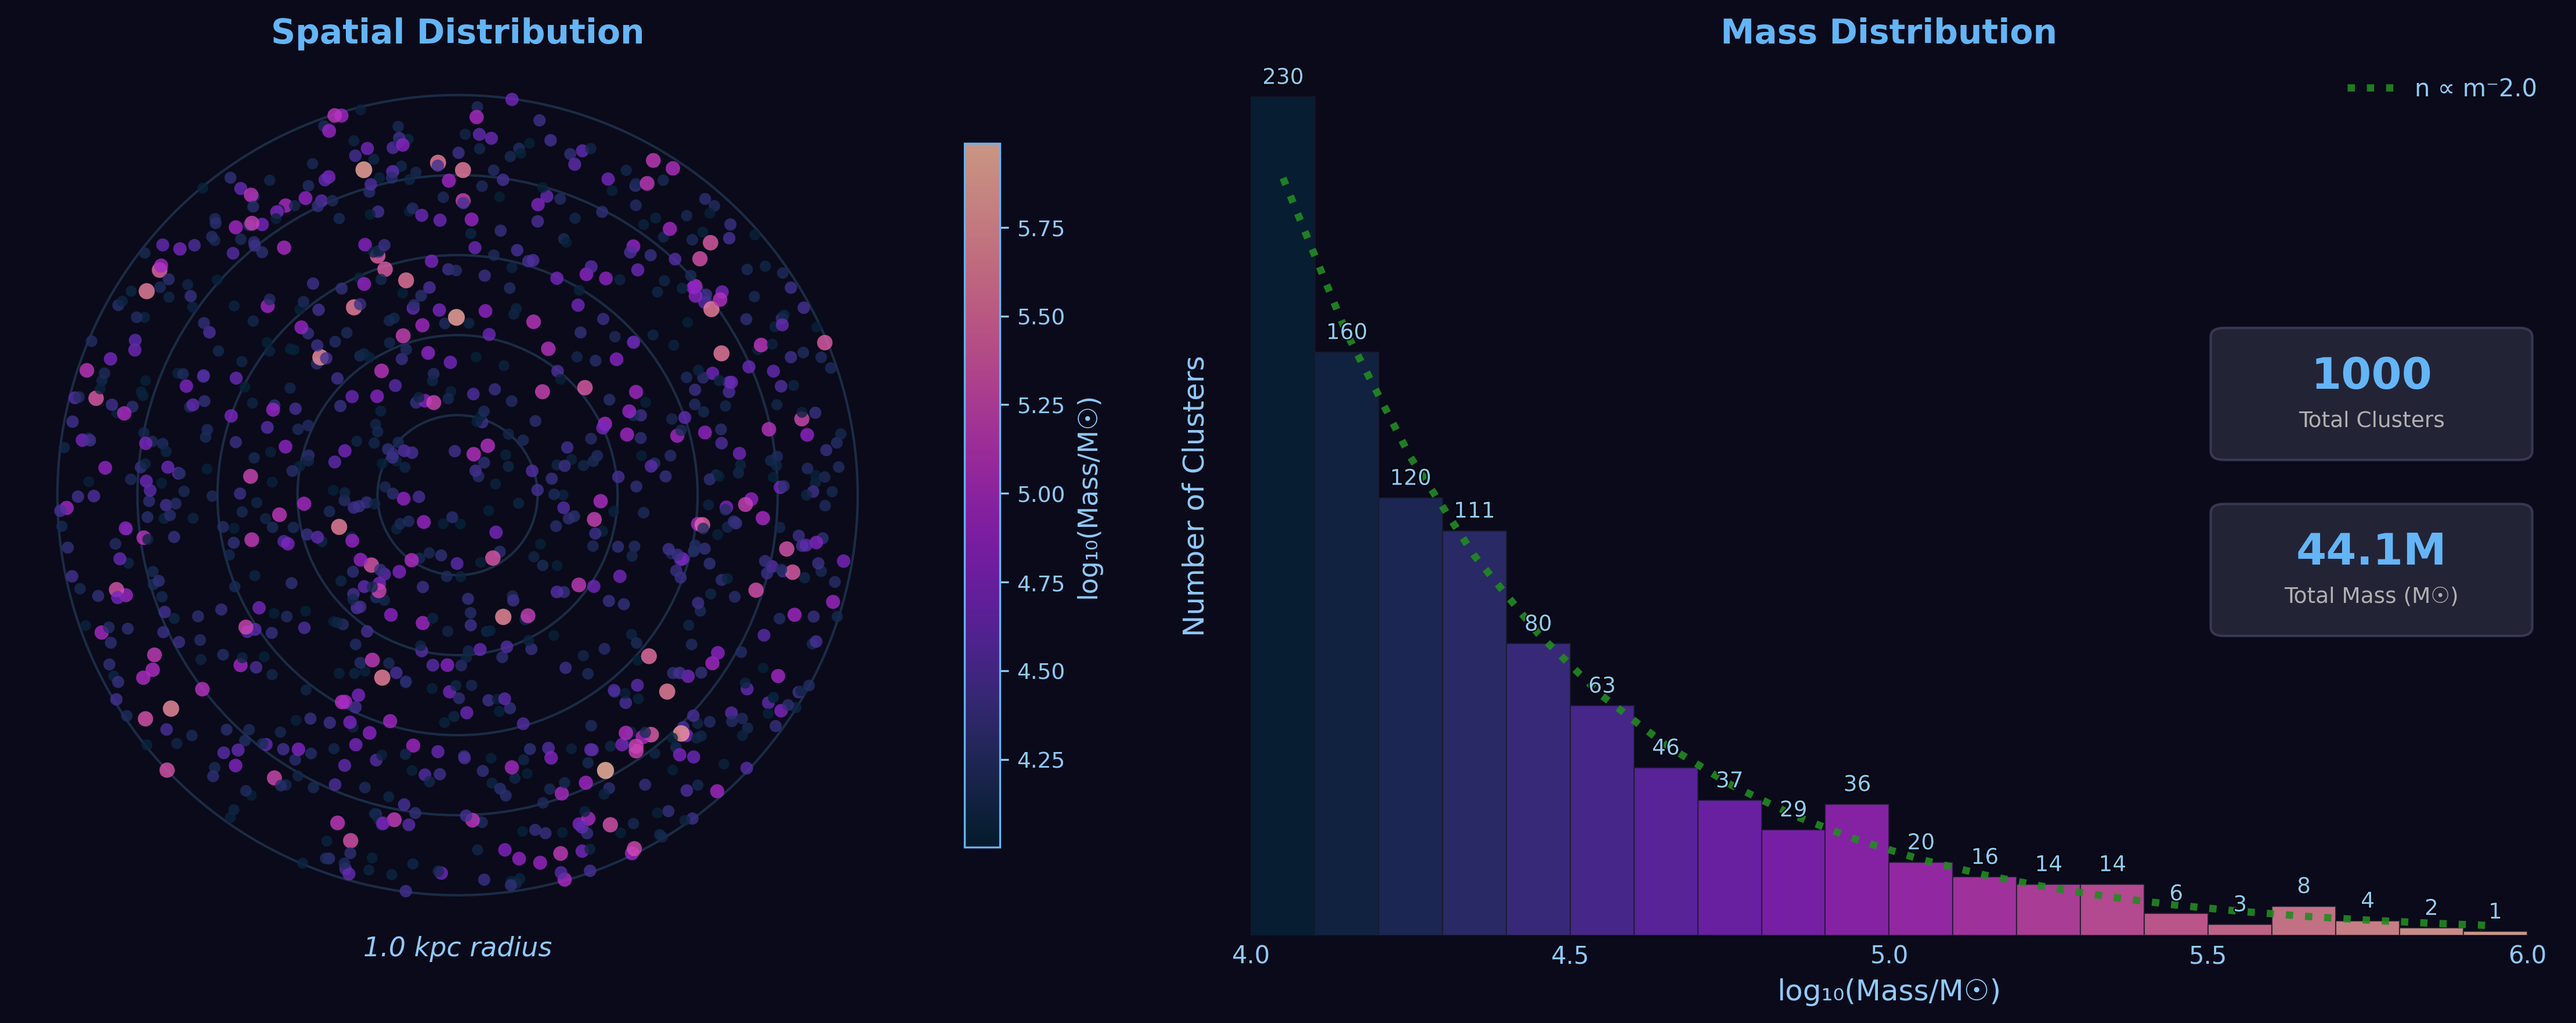
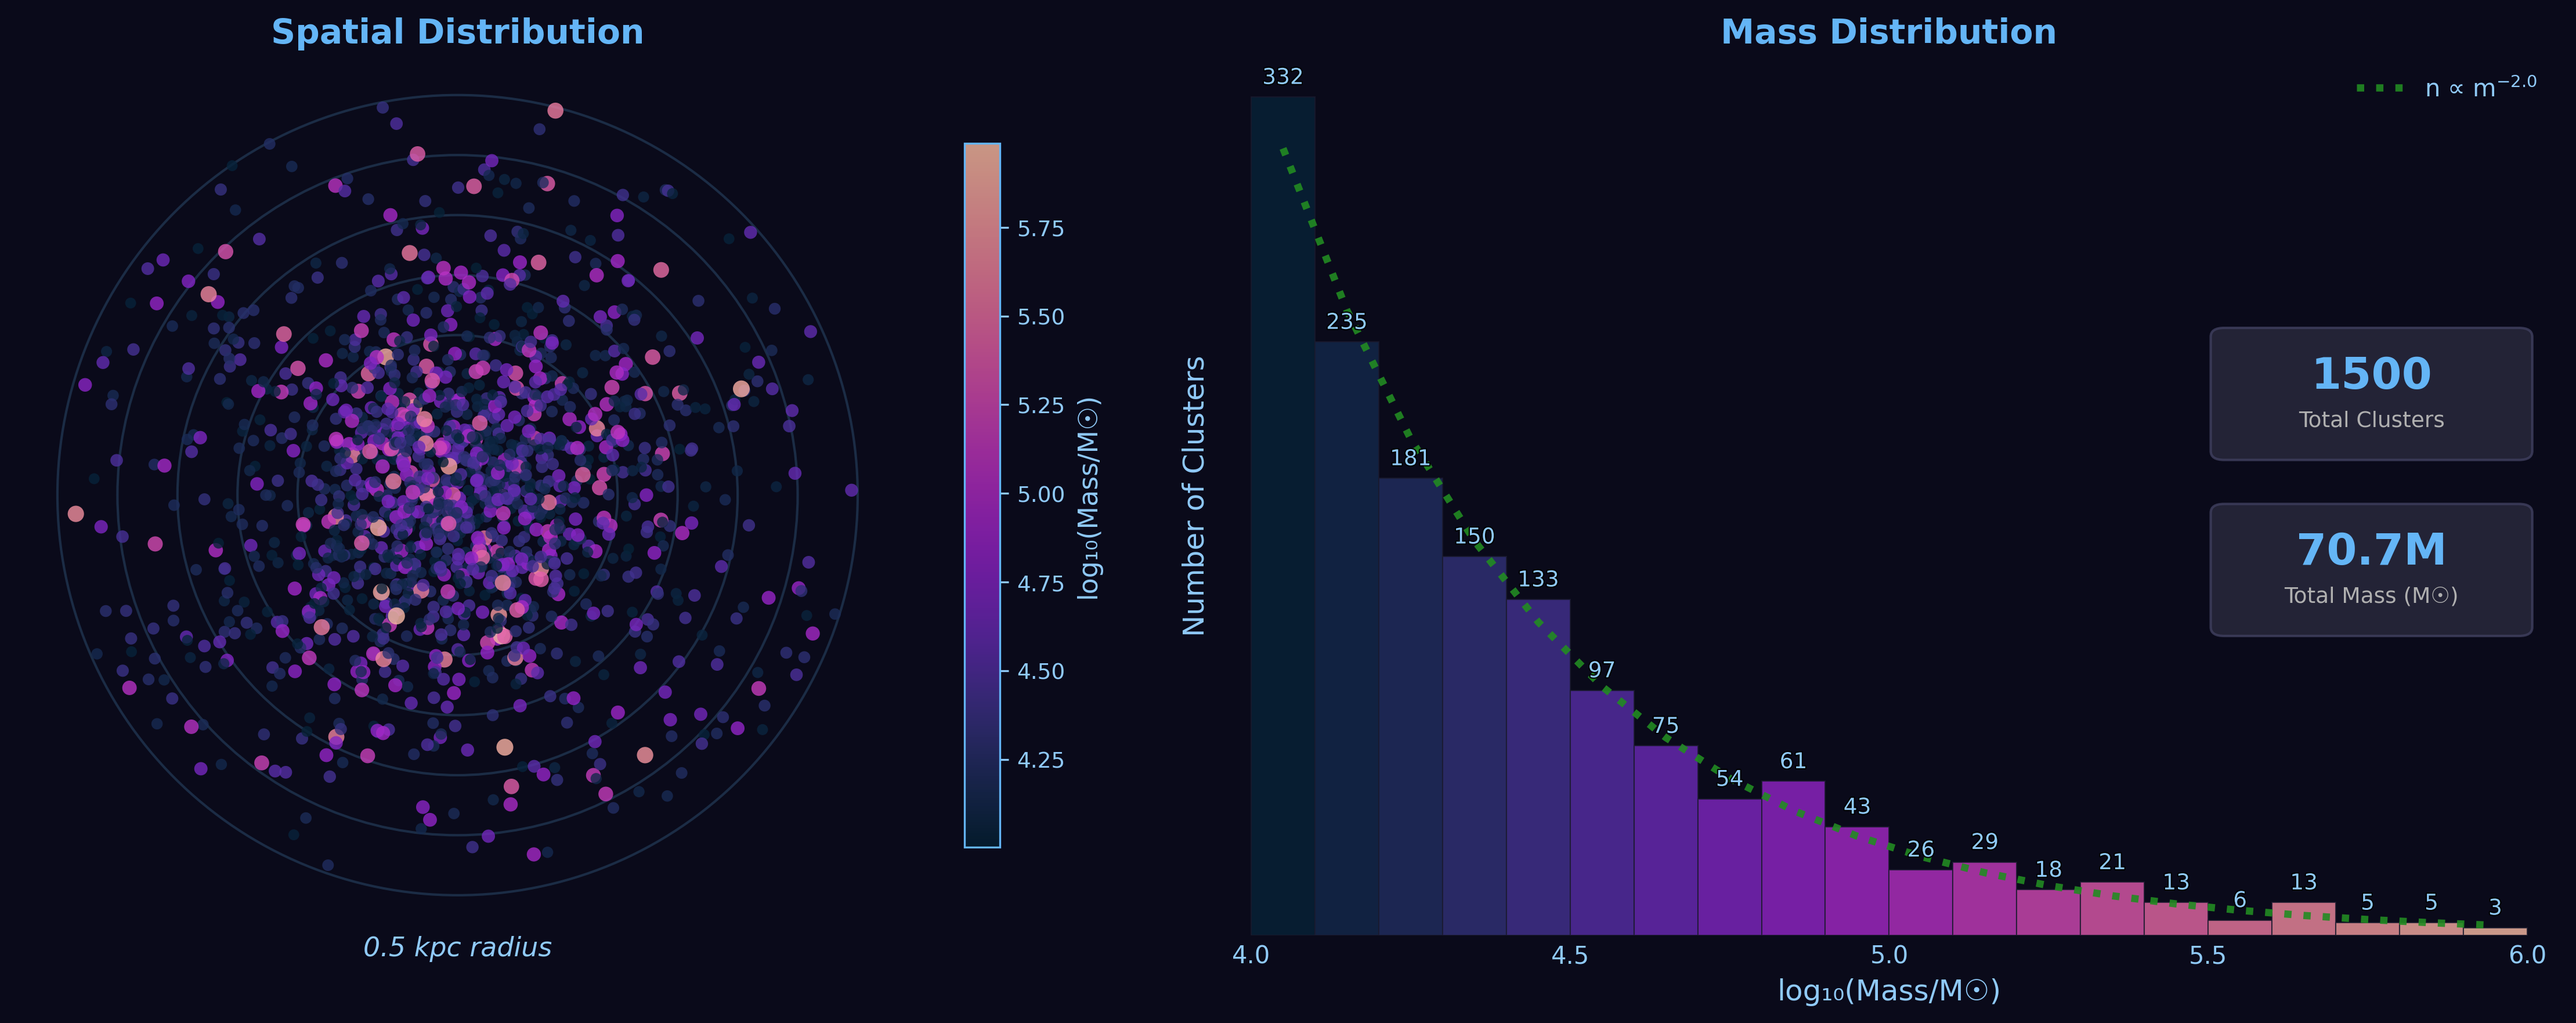
Add centrally concentrated spatial profiles to ClusterGenerator
Extend ClusterParameters with spatial_profile and concentration fields and
add SpatialDistribution.generate_centrally_concentrated supporting plummer,
power-law, and gaussian radial profiles. Update CGM IC and cooling-table
notebooks to exercise the new options.

diff --git a/pysrc/ClusterGenerator.py b/pysrc/ClusterGenerator.py
@@ -21,7 +21,9 @@ class ClusterParameters:
     mass_range: Tuple[float, float] = (1e4, 1e6)  # Solar masses
     alpha: float = 2.0  # Power-law index
     radius_kpc: float = 1.0  # Kiloparsecs
-    
+    spatial_profile: str = 'uniform'       # 'uniform', 'plummer', 'power', 'gaussian'
+    concentration: float = 3.0             # profile-specific (see above)
+
     @property
     def radius_pc(self) -> float:
         """Convert radius from kpc to parsecs."""
@@ -49,6 +51,11 @@ class ClusterParameters:
             raise ValueError("Power-law index must be positive")
         if self.radius_kpc <= 0:
             raise ValueError("Radius must be positive")
+        valid_profiles = ('uniform', 'plummer', 'power', 'gaussian')
+        if self.spatial_profile not in valid_profiles:
+            raise ValueError(f"spatial_profile must be one of {valid_profiles}")
+        if self.concentration <= 0:
+            raise ValueError("concentration must be positive")
 
 
 class MassDistribution:
@@ -168,6 +175,77 @@ class SpatialDistribution:
         x = r * np.cos(theta)
         y = r * np.sin(theta)
         
+        return x, y, r
+    
+    @staticmethod
+    def generate_centrally_concentrated(
+        n: int,
+        radius: float,
+        profile: str = 'plummer',
+        concentration: float = 1.0,
+        seed: Optional[int] = None
+    ) -> Tuple[np.ndarray, np.ndarray, np.ndarray]:
+        """
+        Generate centrally concentrated positions within a disk.
+
+        Parameters
+        ----------
+        n : int
+            Number of positions
+        radius : float
+            Disk truncation radius in parsecs
+        profile : str
+            Radial profile type:
+            'plummer'   - Plummer sphere projected to 2D (physical default)
+            'power'     - Power-law CDF: P(r) ∝ r^beta, beta < 2 concentrates
+            'gaussian'  - Gaussian envelope; concentration sets sigma = radius/concentration
+        concentration : float
+            Profile-specific scale parameter.
+            - For 'plummer': scale radius = radius / concentration (higher = more concentrated)
+            - For 'power':   exponent beta (0 < beta < 2; lower = more concentrated)
+            - For 'gaussian': sigma = radius / concentration
+        seed : Optional[int]
+            Random seed for reproducibility
+
+        Returns
+        -------
+        Tuple[np.ndarray, np.ndarray, np.ndarray]
+            x, y coordinates and radial distances (all in parsecs)
+        """
+        if seed is not None:
+            np.random.seed(seed)
+
+        u = np.random.random(n)
+        theta = np.random.random(n) * 2 * np.pi
+        
+        if profile == 'plummer':
+            # Plummer: CDF in 2D projection is P(r) = r^2 / (r^2 + a^2)
+            # Inverse: r = a * sqrt(u / (1 - u))
+            a = radius / concentration
+            # CDF at truncation radius — normalisation factor
+            u_max = radius**2 / (radius**2 + a**2)
+            # Sample u uniformly in [0, u_max] so r_raw never exceeds radius
+            u = np.random.random(n) * u_max
+            r = a * np.sqrt(u / (1.0 - u + 1e-10))
+
+        elif profile == 'power':
+            # Power-law CDF: P(r) ∝ r^beta, so r = radius * u^(1/beta)
+            # beta < 2 gives more central concentration than uniform (beta=2)
+            beta = np.clip(concentration, 0.1, 2.0)
+            r = radius * u ** (1.0 / beta)
+
+        elif profile == 'gaussian':
+            # Draw r from a Gaussian in 2D: p(r) ∝ r * exp(-r^2 / (2*sigma^2))
+            # Use Rayleigh distribution: r = sigma * sqrt(-2 * ln(u))
+            sigma = radius / concentration
+            r_raw = sigma * np.sqrt(-2.0 * np.log(u + 1e-10))
+            r = np.clip(r_raw, 0, radius)
+
+        else:
+            raise ValueError(f"Unknown profile '{profile}'. Choose from: 'plummer', 'power', 'gaussian'")
+
+        x = r * np.cos(theta)
+        y = r * np.sin(theta)
         return x, y, r
 
 
@@ -500,10 +578,17 @@ class StarClusterGenerator:
         )
         
         # Generate positions in x-y plane
-        x, y, r = SpatialDistribution.generate_uniform_disk(
-            self.params.n_clusters,
-            self.params.radius_pc
-        )
+        if self.params.spatial_profile == 'uniform':
+            x, y, r = SpatialDistribution.generate_uniform_disk(
+                self.params.n_clusters, self.params.radius_pc
+            )
+        else:
+            x, y, r = SpatialDistribution.generate_centrally_concentrated(
+                self.params.n_clusters,
+                self.params.radius_pc,
+                profile=self.params.spatial_profile,
+                concentration=self.params.concentration
+            )
         
         # Generate z-coordinates: uniform between -10 and 10
         z = np.random.uniform(-10, 10, self.params.n_clusters)
